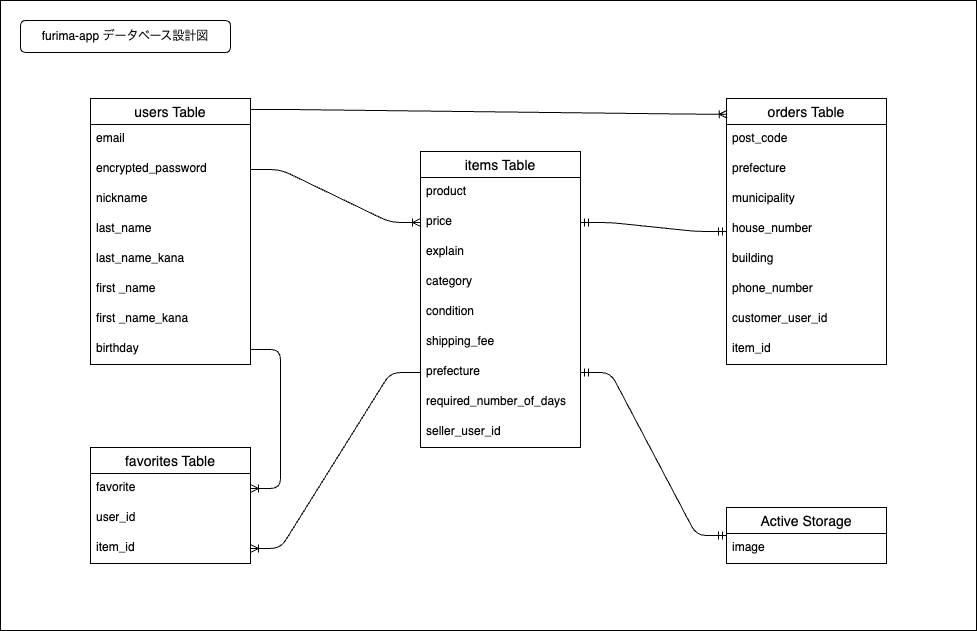
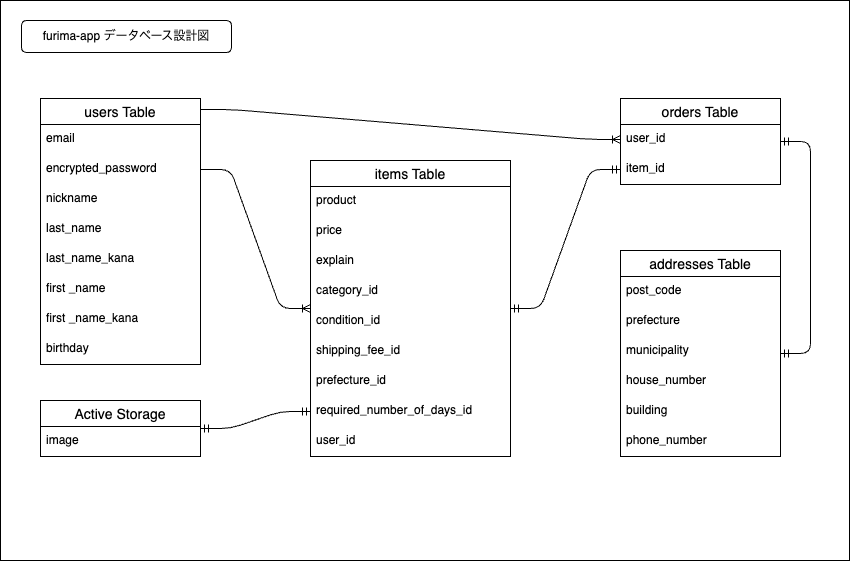
CheckBack分修正（２）

diff --git a/README.md b/README.md
@@ -17,68 +17,50 @@
 
 - has_many :orders
 - has_many :items
-- has_many :comments
-- has_many :favorites
 
 ## orders Table
 
-| Column           | Type       | Options                        |
-| ---------------- | ---------- | ------------------------------ |
-| post_code        | integer    | null: false                    |
-| prefecture       | string     | null: false                    |
-| municipality     | string     | null: false                    |
-| house_number     | integer    | null: false, unique: true      |
-| building         | string     |                                |
-| phone_number     | integer    | null: false, unique: true      |
-| customer_user_id | references | null: false, foreign_key: true |
-| item_id          | references | null: false, foreign_key: true |
+| Column  | Type       | Options                        |
+| ------- | ---------- | ------------------------------ |
+| user_id | references | null: false, foreign_key: true |
+| item_id | references | null: false, foreign_key: true |
 
 ### Association
 
 - belongs_to :user
 - belongs_to :item
+- belongs_to :address
+
+## addresses Table
+
+| Column       | Type    | Options                   |
+| ------------ | ------- | ------------------------- |
+| post_code    | string  | null: false               |
+| prefecture   | string  | null: false               |
+| municipality | string  | null: false               |
+| house_number | string  | null: false               |
+| building     | string  |                           |
+| phone_number | integer | null: false, unique: true |
+
+### Association
+
+- belongs_to :order
 
 ## items Table
 
-| Column                  | Type       | Options                        |
-| ----------------------- | ---------- | ------------------------------ |
-| product                 | string     | null: false                    |
-| price                   | integer    | null: false                    |
-| explain                 | text       | null: false                    |
-| category                | string     | null: false                    |
-| condition               | string     | null: false                    |
-| shipping_fee            | integer    | null: false                    |
-| prefecture              | string     | null: false                    |
-| required_number_of_days | integer    | null: false                    |
-| seller_user_id          | references | null: false, foreign_key: true |
+| Column                     | Type       | Options                        |
+| -------------------------- | ---------- | ------------------------------ |
+| product                    | string     | null: false                    |
+| price                      | integer    | null: false                    |
+| explain                    | text       | null: false                    |
+| category_id                | string     | null: false                    |
+| condition_id               | string     | null: false                    |
+| shipping_fee_id            | integer    | null: false                    |
+| prefecture_id              | string     | null: false                    |
+| required_number_of_days_id | integer    | null: false                    |
+| user_id                    | references | null: false, foreign_key: true |
 
 ### Association
 
 - belongs_to :user
-- belongs_to :order
-- belongs_to :image
-- has_many :comments
-- has_many :favorites
-
-## favorites Table
-
-| Column   | Type       | Options                        |
-| -------- | ---------- | ------------------------------ |
-| favorite | string     | null: false                    |
-| user_id  | references | null: false, foreign_key: true |
-| item_id  | references | null: false, foreign_key: true |
-
-### Association
-
-- belongs_to :user
-- belongs_to :item
-
-## Active Storage
-
-| Column | Type | Options     |
-| ------ | ---- | ----------- |
-| image  | text | null: false |
-
-### Association
-
-- belongs_to :item
+- has_one :order
